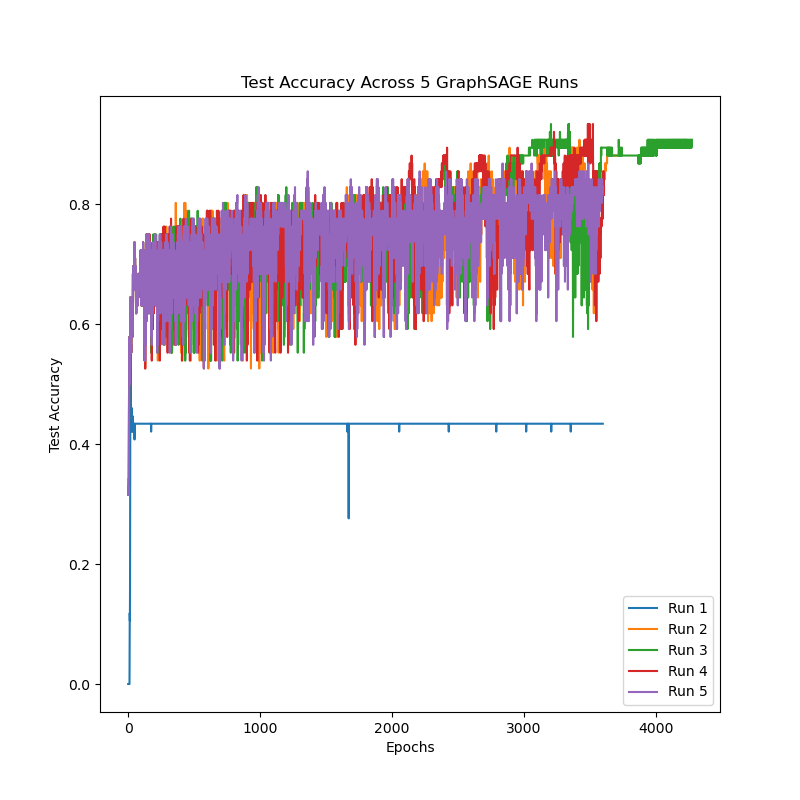
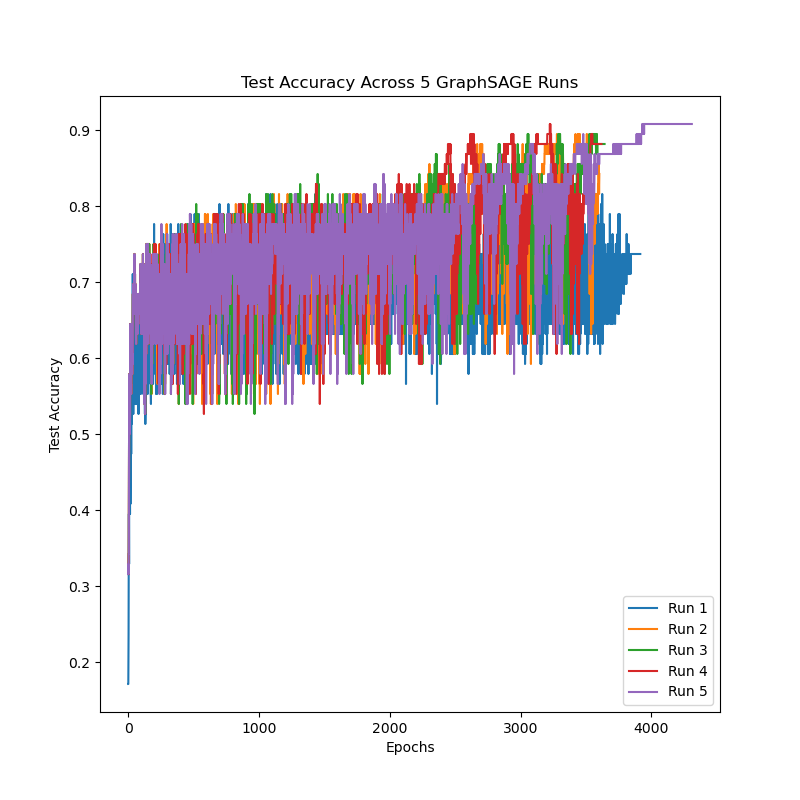
graphsage run results + saved pca/embeddings/results

diff --git a/Q2_Prep/.ipynb_checkpoints/graphsage-checkpoint.py b/Q2_Prep/.ipynb_checkpoints/graphsage-checkpoint.py
@@ -273,7 +273,9 @@ for _ in range(5):
                 all_metrics.append(np.array([train_accs, test_accs, val_accs, train_losses, val_losses, test_losses]))
                 break
 
-# save best performing model
+# save final results from all runs and find best performing model
+train_accs_across_runs = [all_metrics[i][0][-100] for i in range(len(all_metrics))]
+val_accs_across_runs = [all_metrics[i][2][-100] for i in range(len(all_metrics))]
 test_accs_across_runs = [all_metrics[i][1][-100] for i in range(len(all_metrics))]
 max_acc = 0
 best_model_idx = None
@@ -281,6 +283,9 @@ for i,acc in enumerate(test_accs_across_runs):
     if acc > max_acc:
         max_acc = acc
         best_model_idx = i
+
+res_table = pd.DataFrame({'Train Accuracy': train_accs_across_runs, 'Valdiation Accuracy': val_accs_across_runs, 'Test Accuracy': test_accs_across_runs}, index = ['Run 1', 'Run 2', 'Run 3', 'Run 4', 'Run 5'])
+res_table.to_csv('outputs/results_table.csv')
 
 torch.save(best_models[best_model_idx].state_dict(), "graphsage_adj.pth")
 best_metrics = all_metrics[best_model_idx]
@@ -300,6 +305,7 @@ for i, row in enumerate([all_metrics[i][3] for i in range(len(all_metrics))]):
     plt.plot(row, label=f"Run {i+1}")
 plt.xlabel("Epochs")
 plt.ylabel("Loss")
+plt.ylim(0,10)
 plt.title("Training Loss Across 5 GraphSAGE Runs")
 plt.legend()
 plt.savefig('sage_loss.png')
@@ -307,12 +313,12 @@ plt.savefig('sage_loss.png')
 # Plot PCA, Accuracies, Loss for best model
 # Plot PCA of embeddings
 embeddings = best_models[best_model_idx].get_embeddings().cpu().detach().numpy()
-np.save("data/sage_embeddings.npy", embeddings)
+np.save("outputs/sage_embeddings.npy", embeddings)
 pca = PCA(n_components=2)
 pca_embeds = pca.fit_transform(embeddings)
 ec_mask = (G.y == 1).cpu()
-np.save("data/ec_pca.npy", pca_embeds[ec_mask])
-np.save("data/hsr_pca.npy", pca_embeds[~ec_mask])
+np.save("outputs/ec_pca.npy", pca_embeds[ec_mask])
+np.save("outputs/hsr_pca.npy", pca_embeds[~ec_mask])
 
 plt.figure(figsize=(8,8))
 plt.scatter(pca_embeds[:, 0][ec_mask], pca_embeds[:, 1][ec_mask], color='red', label='ecDNA', alpha=0.7)

diff --git a/Q2_Prep/graphsage.py b/Q2_Prep/graphsage.py
@@ -273,7 +273,9 @@ for _ in range(5):
                 all_metrics.append(np.array([train_accs, test_accs, val_accs, train_losses, val_losses, test_losses]))
                 break
 
-# save best performing model
+# save final results from all runs and find best performing model
+train_accs_across_runs = [all_metrics[i][0][-100] for i in range(len(all_metrics))]
+val_accs_across_runs = [all_metrics[i][2][-100] for i in range(len(all_metrics))]
 test_accs_across_runs = [all_metrics[i][1][-100] for i in range(len(all_metrics))]
 max_acc = 0
 best_model_idx = None
@@ -281,6 +283,9 @@ for i,acc in enumerate(test_accs_across_runs):
     if acc > max_acc:
         max_acc = acc
         best_model_idx = i
+
+res_table = pd.DataFrame({'Train Accuracy': train_accs_across_runs, 'Valdiation Accuracy': val_accs_across_runs, 'Test Accuracy': test_accs_across_runs}, index = ['Run 1', 'Run 2', 'Run 3', 'Run 4', 'Run 5'])
+res_table.to_csv('outputs/results_table.csv')
 
 torch.save(best_models[best_model_idx].state_dict(), "graphsage_adj.pth")
 best_metrics = all_metrics[best_model_idx]
@@ -308,12 +313,12 @@ plt.savefig('sage_loss.png')
 # Plot PCA, Accuracies, Loss for best model
 # Plot PCA of embeddings
 embeddings = best_models[best_model_idx].get_embeddings().cpu().detach().numpy()
-np.save("data/sage_embeddings.npy", embeddings)
+np.save("outputs/sage_embeddings.npy", embeddings)
 pca = PCA(n_components=2)
 pca_embeds = pca.fit_transform(embeddings)
 ec_mask = (G.y == 1).cpu()
-np.save("data/ec_pca.npy", pca_embeds[ec_mask])
-np.save("data/hsr_pca.npy", pca_embeds[~ec_mask])
+np.save("outputs/ec_pca.npy", pca_embeds[ec_mask])
+np.save("outputs/hsr_pca.npy", pca_embeds[~ec_mask])
 
 plt.figure(figsize=(8,8))
 plt.scatter(pca_embeds[:, 0][ec_mask], pca_embeds[:, 1][ec_mask], color='red', label='ecDNA', alpha=0.7)
